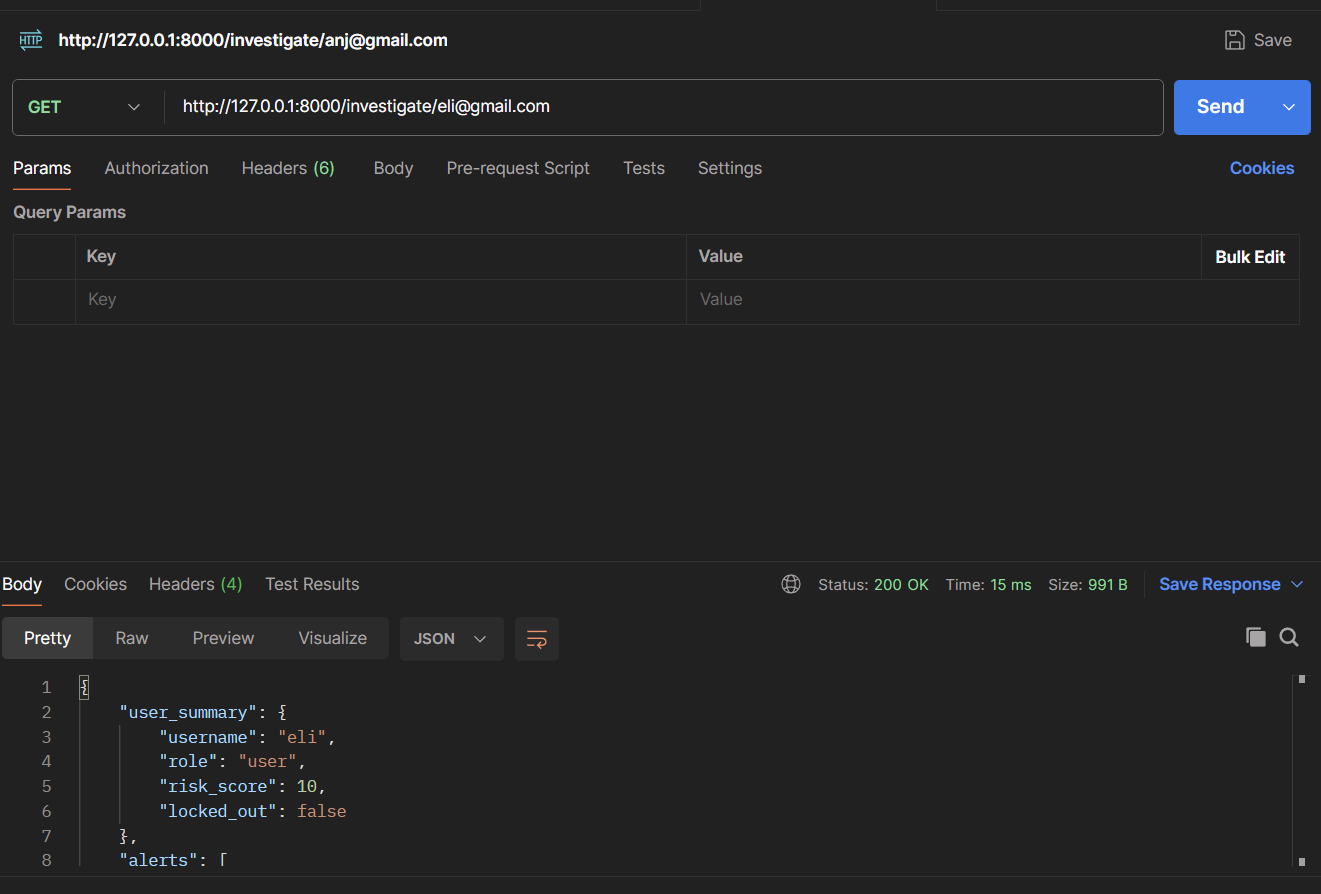
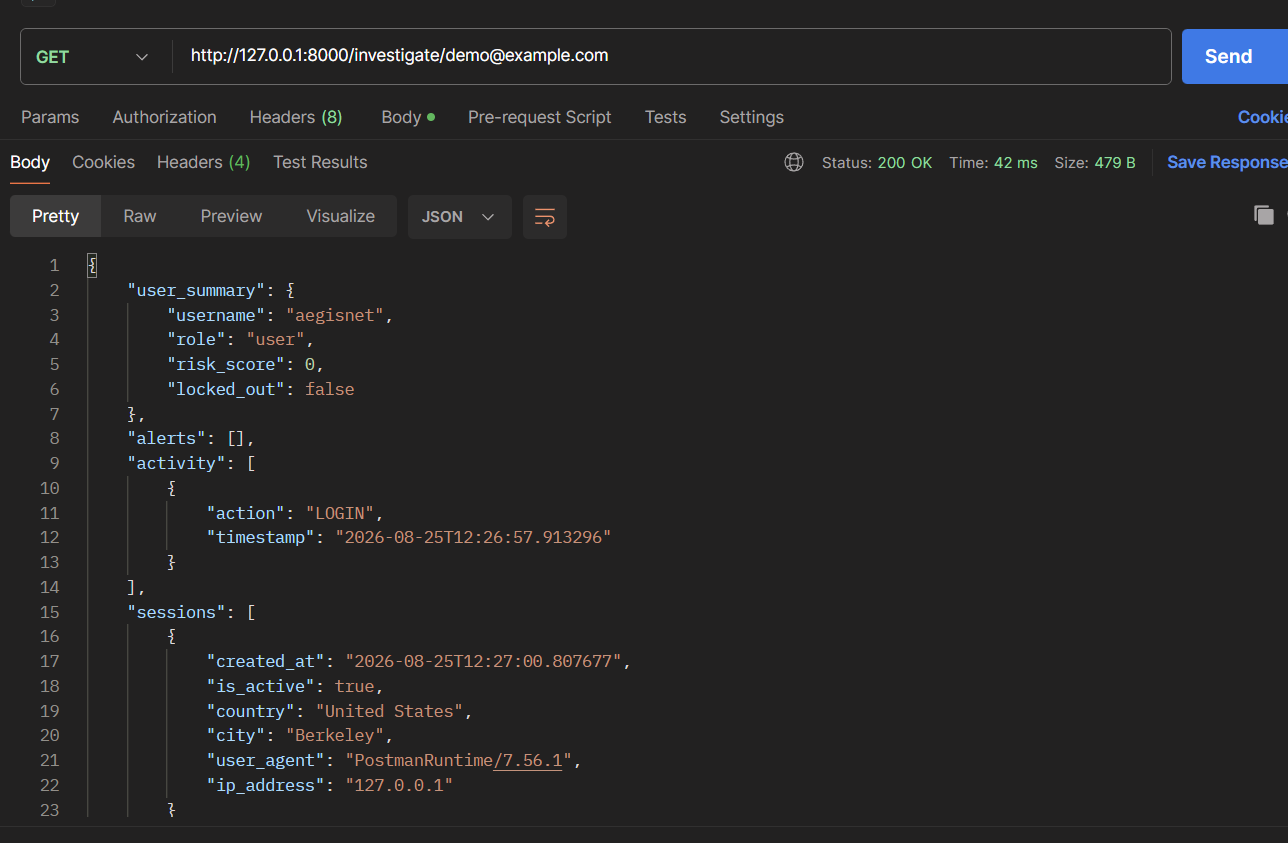
updated documentation and API screenshots

diff --git a/README.md b/README.md
@@ -1,76 +1,192 @@
-# AegisNet
+#  AegisNet
 
-A security monitoring and threat detection backend built with FastAPI and PostgreSQL.
+-----> Security monitoring and threat detection backend built with FastAPI, PostgreSQL, Redis, Docker, and CI/CD.
 
-## Features
+ **[Live API](https://aegisnet-v15o.onrender.com/)**  
+ **[Swagger Docs](https://aegisnet-v15o.onrender.com/docs)**
 
-- JWT Authentication
-- Role Based Access Control
-- Activity Logging
-- Redis-powered failed login tracking and account lockout
-- Alert Generation
-- Risk Score System
-- Account Lockout
-- Session Tracking
-- User Investigation APIs
-- Security Dashboard
-- Security Reports
 
-## Tech Stack
+AegisNet is a backend security platform that monitors user activity, detects suspicious behavior, generates security alerts, tracks sessions, and provides APIs for security investigation and reporting.
 
+
+##  Features
+
+-  JWT authentication & bcrypt password hashing
+-  Role-Based Access Control (RBAC)
+-  Activity logging
+-  Security alert generation
+-  Risk scoring & security grades
+-  Automatic account lockout
+-  Redis-based failed login tracking with TTL
+-  Session tracking & session management
+-  User investigation APIs
+-  Security dashboard & reporting APIs
+-  Real-time security alerts with WebSockets
+-  Docker & Docker Compose
+-  GitHub Actions CI/CD
+-  Automated testing with Pytest
+-  FastAPI Swagger/OpenAPI documentation
+
+##  Architecture
+
+![AegisNet Architecture](aegisnet_architecture/architecture.png)
+
+##  Tech Stack
+
+**Backend**
 - Python
 - FastAPI
-- PostgreSQL
 - SQLModel
+- PostgreSQL
+- Redis
+
+**Security**
 - JWT
 - Bcrypt
-- Redis
-- Websocket
-- Railway
+- RBAC
+- Risk Scoring
+- Account Lockout
+- Session Tracking
 
-## Project Status
+**DevOps & Testing**
+- Docker
+- Docker Compose
+- GitHub Actions
+- Pytest
+- Postman
 
-current version :v1.1
+## Redis Integration
 
-## latest update:
--integrated Redis for high-performance failed login tracking
--optimized account lockout using Redis TTL
+Redis is used for temporary failed-login counters instead of repeatedly querying PostgreSQL.
 
-##  Latest Improvements
+- Fast failed-login tracking
+- Automatic TTL expiration
+- Reduced database queries during authentication
+- Supports scalable authentication workflows
 
-- Integrated Redis for in-memory failed login tracking.
-- Reduced repeated database queries during authentication.
-- Added automatic TTL expiration for temporary login counters.
-- Improved backend performance and scalability.
+##  Key APIs
 
-## Architecture Diagram
+| /signup ( POST )---> Register a user 
+| /login ( POST)  --->Authenticate a user 
+| /viewuser  (GET )--->View authenticated user 
+| /viewlogs (GET) --->View activity logs 
+| /viewalerts  (GET) ---> View security alerts 
+| /admin_dashboard  (GET)  --->Security dashboard statistics 
+| /investigate/{email} ( GET) ---> Investigate user security data 
+| /security_report/{email}  (GET) ---> Generate security report 
+| /unlock_user  (POST)  --->Unlock locked account 
+| /my_sessions  (GET) --->View user sessions 
+| /logout_sessions  (POST) ---> Logout a session 
+| /logout_all/{email}  (DELETE) ---> Logout all sessions 
+| /ws/alerts----> WebSocket Real-time security alerts 
 
-![Architecture](aegisnet_architecture/architecture.png)
+##  Docker
 
-## Screenshots
+Run the application using Docker Compose:
 
-### Dashboard
-![Dashboard](screenshots/dashboard.png)
+```bash
+docker compose up --build
+```
 
-### Investigation
-![Investigation](screenshots/investigate.png)
+##  CI/CD
 
-### Login
-![Login](screenshots/login.png)
+GitHub Actions is used to automate testing and validation whenever changes are pushed to the repository.
+
+##  Testing
+
+Run the test suite with:
+
+```bash
+pytest
+```
+
+##  Run Locally
+
+Clone the repository:
+
+```bash
+git clone <your-repository-url>
+cd AegisNet
+```
+
+Create a virtual environment:
+
+```bash
+python -m venv venv
+```
+
+Activate it on Windows:
+
+```bash
+venv\Scripts\activate
+```
+
+Install dependencies:
+
+```bash
+pip install -r requirements.txt
+```
+
+Create a `.env` file with the required environment variables:
+
+```env
+SECRET_KEY=your_secret_key
+DATABASE_URL=your_database_url
+REDIS_URL=your_redis_url
+```
+
+Start the API:
+
+```bash
+uvicorn main:app --reload
+```
+
+Swagger documentation:
+
+`http://127.0.0.1:8000/docs`
+
+##  Screenshots
+
+### Security Dashboard
+
+![Security Dashboard](aegisnet_architecture/screenshots/dashboard.png)
+
+### User Investigation
+
+![User Investigation](aegisnet_architecture/screenshots/investigate.png)
 
 ### Security Report
-![Security Report](screenshots/securityreport.png)
+
+![Security Report](aegisnet_architecture/screenshots/security_report.png)
+
+### Signup API
+
+![Signup API](aegisnet_architecture/screenshots/signup.png)
+
+
+##  Project Status
+
+**Current Version: v1.1**
+
+
+### Latest Improvements
+
+- Integrated Redis for high-performance failed-login tracking
+- Added TTL-based temporary login counters
+- Reduced repeated database queries during authentication
+- Added Docker & Docker Compose
+- Added GitHub Actions CI/CD
+- Added security investigation and reporting APIs
+- Added real-time WebSocket alerts
+- Improved backend performance and scalability
+
+##  Author
+
+**Anjana Nv**  
+
+B.Tech Computer Science Engineering.
 
 
 
-### live API
---delpoyment currently unavailable--
 
-run locally:
-uvicorn main:app --reload
 
-swagger documentation(not available now):
-https://aegisnet-production.up.railway.app/docs
-
-swagger docs:
-http://127.0.0.1:8000/docs
